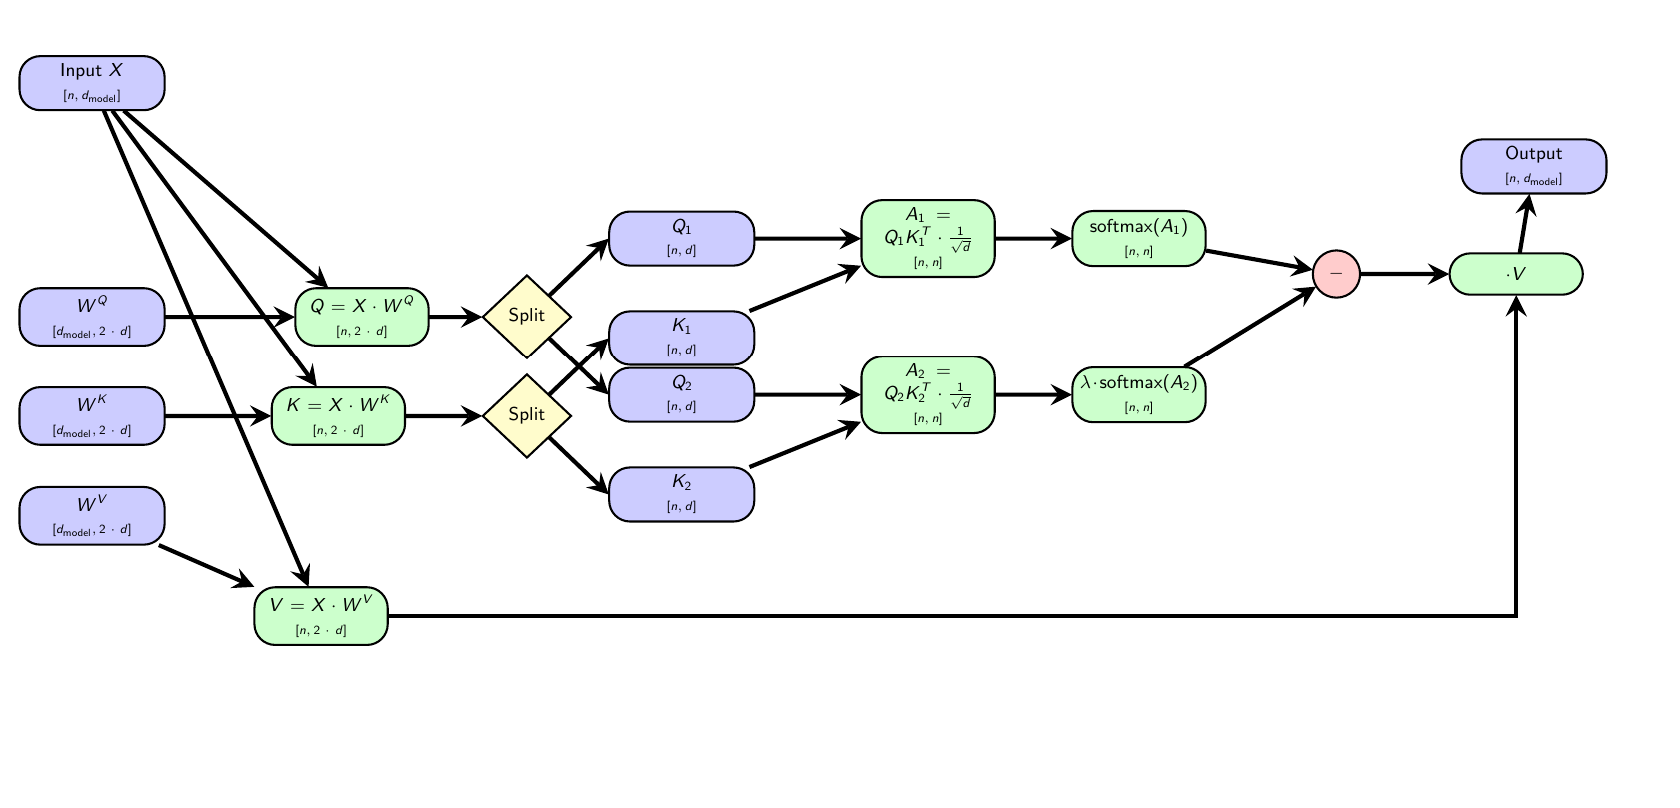
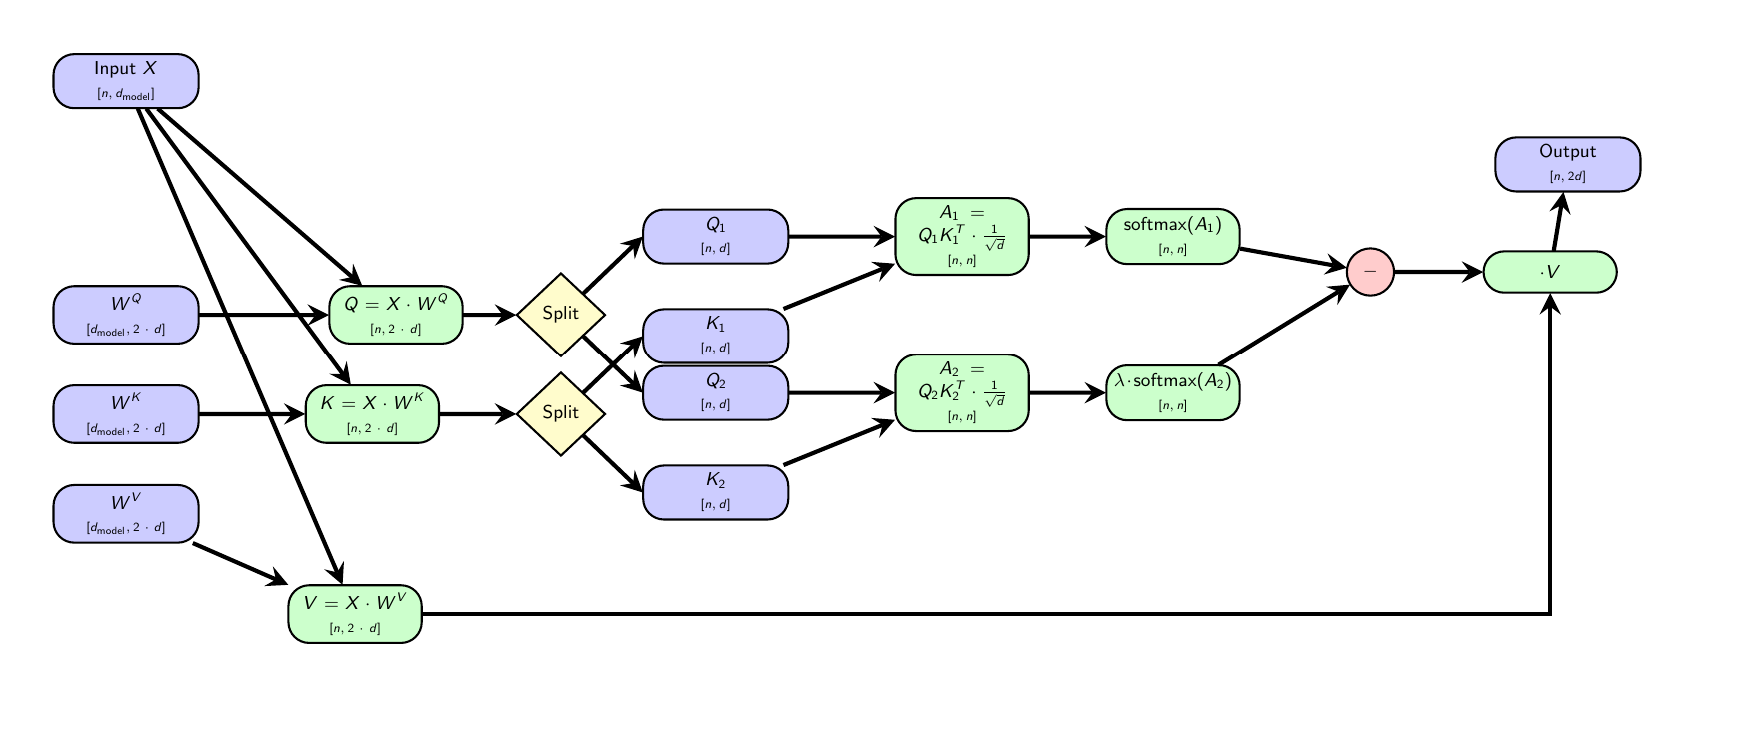
made some improvements

Changed region(s): [[0.0, 0.0612, 0.9595, 0.8564]]

diff --git a/docs/_posts/2025-05-19-welcome-to-jekyll.md b/docs/_posts/2025-05-19-welcome-to-jekyll.md
@@ -29,16 +29,17 @@ The attention is then calculated as follows:
 
 $$\text{Attention}(Q, K, V) = \text{softmax}\left(\frac{QK^T}{\sqrt{d_k}}\right)V$$
 
-![Description](/graphics/ScaledDotAttention.jpg)
+![Description](/graphics/ScaledDotAttention.jpg)  
 Multi-head attention extends this concept:
 
 $$\text{MultiHead}(X) = \text{Concat}(\text{head}_1, \ldots, \text{head}_h)W^O$$ 
 
 $$\text{head}_i = \text{Attention}(XW_i^Q, XW_i^K, XW_i^V)$$
 
-For For input $X \in \mathbb{R}^{n \times d_{model}}$ and weight matrices $W_i^Q, W_i^K \in \mathbb{R}^{d_{model}\times d_{k}}, W_i^V \in \mathbb{R}^{d_{model} \times d_{v}}, W^) \in \mathbb{R}^{hd_{v} \times d_{model}} (0 \leq i \leq h)$ with h attention heads
+For input $X \in \mathbb{R}^{n \times d_{model}}$ and weight matrices $W_i^Q, W_i^K \in \mathbb{R}^{d_{model}\times d_{k}}, W_i^V \in \mathbb{R}^{d_{model} \times d_{v}}, W^O \in \mathbb{R}^{hd_{v} \times d_{model}} (0 \leq i \leq h)$ with h attention heads
+$d_k$ is the dimension of the Key and Query and $d_v$ is the dimension of the Values. $d_k = d_v = d_{model}/h$ is mostly chosen in practice.
 
-Each attention head is supposed to focus on different aspects of the input and has its own set of learnable weight martrices. The result of each attention head is concatenated to form a matrix of dimension $n \times hd_{v}$. To bring this concatenated matrix back the the dimension of input $X$ it is multiplied with learnable weight matrix $W^O \in \mathbb{R}^{hd_{v} \times n}$
+Each attention head is supposed to focus on different aspects of the input and has its own set of learnable weight matrices. The result of each attention head is concatenated to form a matrix of dimension $n \times hd_{v}$. To bring this concatenated matrix back the the dimension of input $X$ it is multiplied with learnable weight matrix $W^O \in \mathbb{R}^{hd_{v} \times n}$  
 ![Description](/graphics/MulitHeadAttention.jpg)
 ### Advantages of Traditional Transformers
 
@@ -49,7 +50,7 @@ Each attention head is supposed to focus on different aspects of the input and h
 
 ## Problems with Traditional Transformers
 
-Despite their success, traditional transformers face significant challenges:
+But even superheros have limitations:
 
 ### Computational Limitations
 - **Quadratic Complexity**: O(n²) scaling with sequence length
@@ -64,17 +65,17 @@ Despite their success, traditional transformers face significant challenges:
 
 ### Long Context Problem
 
-For long input sequences the attention allocation is inefficient, meaning the irrelevant parts of the input sequence get too much attention. For the needle in a heystack approach the model is provided a context which contains a piece of information buried within. Now the model is queried to retrieve that piece of information. The longer the context gets the more traditional transformers struggle to retrieve the piece of information.
+In traditional transformers, attention allocation becomes increasingly inefficient for long input sequences, as irrelevant parts of the context often receive undue focus. This is vividly illustrated by the "needle-in-a-haystack" test: The model is given a lengthy context with a specific piece of information hidden deep within it, then queried to retrieve that exact detail. As the context length grows, traditional transformers falter, struggling to zero in on the relevant "needle" amid the noise – leading to poorer retrieval accuracy and diluted performance.
 
 ![Description](/graphics/Chat.png)
-This is an example for the inefficient attention allocation:
+This is an example for the inefficient attention distribution:
 ![Description](/graphics/TransformerPerformance.jpg)
 
 The most important parts, meaning the query and the answer combined get only 16% of the total attention. The differential transformer architecture aims to solve that problem.
 
 ![Description](/graphics/DiffTransPerformance.jpg)
 
-With the differential transformer architecture the model allocates 79% of its attention to the relevant parts and thus has a much higher signal-to-noise ratio.
+With the differential transformer architecture the model allocates 79% of its attention to the relevant parts and thus has a much higher signal-to-noise ratio. The Context that does not hold the answer gets only 2% of the total attention and the attention on the BOS(Beginning of Sequence) Token gets 19%, down from 32%.
 
 
 
@@ -90,7 +91,7 @@ The mechanism:
 - additionally you now also have a scalar $ \lambda$ to manage the noise cancelling of the attention mechanism
 - just like with in the traditional transformer model you use the weight matrices to project X to $XW^Q = Q, \quad XW^K = K, \quad XW^V = V$
 - afterwards Q and K are being split in the middle to $$Q_1, Q_2, K_1, K_2 \in \mathbb{R}^{n \times d}$$
-- And the following formula is used to calculate the differential attention
+- And the following formula is used to calculate the differential attention:
 $$\text{DiffAttn}(X) = \left(\text{softmax}\left(\frac{Q_1K_1^T}{\sqrt{d}}\right) - \lambda \cdot \text{softmax}\left(\frac{Q_2K_2^T}{\sqrt{d}}\right)\right)V$$
 
 ![Description](/graphics/DiffAttnGraph.png)
@@ -98,12 +99,12 @@ $$\text{DiffAttn}(X) = \left(\text{softmax}\left(\frac{Q_1K_1^T}{\sqrt{d}}\right
 And as with traditional attention there is also differential multi head attention as follows:
 ![Description](/graphics/diffmultiattention.jpg)  
 Each attention head gets individually normed to help with training. The norm that they used is the RSM norm unlike in the graphic. This norm does not fix the output to a certain mean value, but reduces variance. There are more effective norms but this norm is computationally efficient.   
-$$\text{RMS}(\mathbf{x}) = \sqrt{\frac{1}{d} \sum_{i=1}^{d} x_i^2}$$
+$$\text{RMS}(\mathbf{x}) = \sqrt{\frac{1}{d} \sum_{i=1}^{d} x_i^2}$$  
 $$\text{RMSNorm}(\mathbf{x})_i = \frac{x_i}{\text{RMS}(\mathbf{x})} \cdot g_i$$  
 The result is then multiplied by $(1-\lambda)$ to adjust for the subtraction(high $\lambda$ means the result of $\text{DiffAttn}(X)$ tends to be smaller) and to align it with the traditional transformer architecture this factor is chosen. 
 From there on it is the same procedure as with traditional attention just with slightly different dimensions to adjust for the split:
-1. The results of all attention heads are horizontally concatenated to form a new matrix of dimension [n, hd]
-2. This is then multiplied with the trainable weight matrix $W^O \in \mathbb{R}^{hd, d_{model}}$ 
+1. The results of all attention heads are horizontally concatenated to form a new matrix of dimension [n, 2hd]
+2. This is then multiplied with the trainable weight matrix $W^O \in \mathbb{R}^{2hd, d_{model}}$ 
 3. This then yields a matrix of the dimension $[n, d_{model}]$ 
 
 
@@ -125,24 +126,24 @@ where l is the layer index.
 
 ### Overall Structure
 
-
-$$\text{headprev}_i = \text{DiffAttn}(X; W^Q_i, W^K_i, W^V_i, \lambda)$$
-
-$$\text{head}_i = (1 - \lambda_{\text{init}}) \cdot \text{LN}(\text{headprev}_i)$$
-
-$$\text{MultiHead}(X) = \text{Concat}(\text{head}_1, \ldots, \text{head}_h)W^O$$
-
 Each Differential Transformer layer maintains the same macro structure as traditional transformers:
 
 $$Y^l = \text{MultiHead}(\text{LN}(X^l)) + X^l$$
 
 $$X^{l+1} = \text{SwiGLU}(\text{LN}(Y^l)) + Y^l$$
 
+The Multi Head Attention is meant to add context about the rest of the tokes in the sequence and the SwiGLU function is meant to gate information.
+
+### Summary
+
+The differential attention mechanism is similar to the traditional one. The main difference is that now each token gets projected to K and Q where the first $d$ dimensions are representing the things to focus on and the second $d$ dimensions are the things to actively not pay attention to. The appropriate analogy is normal and ANC(active noise canceling) headphones. With normal headphones you can try to drown the noise from the background out by turning the volume all the way up. But this comes with significant downsides. ANC headphones on the other hand have a mechanism to cancel out background noise to improve the sound quality. In this analogy traditional transformers are the normal headphones and differential transformers are the ANC headphones.
+
 ## Experimental Results
 
 ### Needle-in-a-Haystack Performance
 
-The Needle-in-a-Haystack test evaluates a model's ability to extract specific information from large contexts. Results show:
+The Needle-in-a-Haystack test evaluates a model's ability to extract specific information from large contexts. The test cases are categorized by the length of the context and the depth in which the information is buried. The higher the depth and the longer the context the harder it is to retrieve the information.  
+Results show:
 
 - **Minor differences at low context lengths**
 - **Superior performance with increasing context length and depth**
@@ -172,7 +173,7 @@ Though it is to be noted that this performance still is **very basic compared to
 
 - **Suggests** diff transformer scales well with increases in the number of parameters and training tokens
 - **Same performance with noticeably less parameters and training tokens**
-- 6.8 B parameter diff transformer has similar performance to 11B parameters traditional transformer
+- 6.8 B parameter diff transformer has similar performance to 11B parameters traditional transformer. This could be pariculary important for locally hosted LLMs. Because a lot people(gamers, etc.) still have GPUs with 8 GB VRAM. These people could now run a much more powerful LLM than before. This can also enable private users to provide the model with longer contexts, where the model would usually run out of VRAM.
 ![Description](/graphics/parascale.jpg)
 - Diff Transformer trained with 160B tokens has comparable performance to traditional transformer trained with 251B tokens
 ![Description](/graphics/trainingscale.jpg)
@@ -214,4 +215,5 @@ As the AI community continues to push the boundaries of what's possible with tra
 - Ye et al. (2025). "Differential Transformer"
 - Transformers for Machine Learning: A Deep Dive
 - https://medium.com/@thirupathi.thangavel/limitations-of-transformer-architecture-4e6118cbf5a4
+- https://medium.com/@lyx_62906/context-kills-vram-how-to-run-llms-on-consumer-gpus-a785e8035632
 
